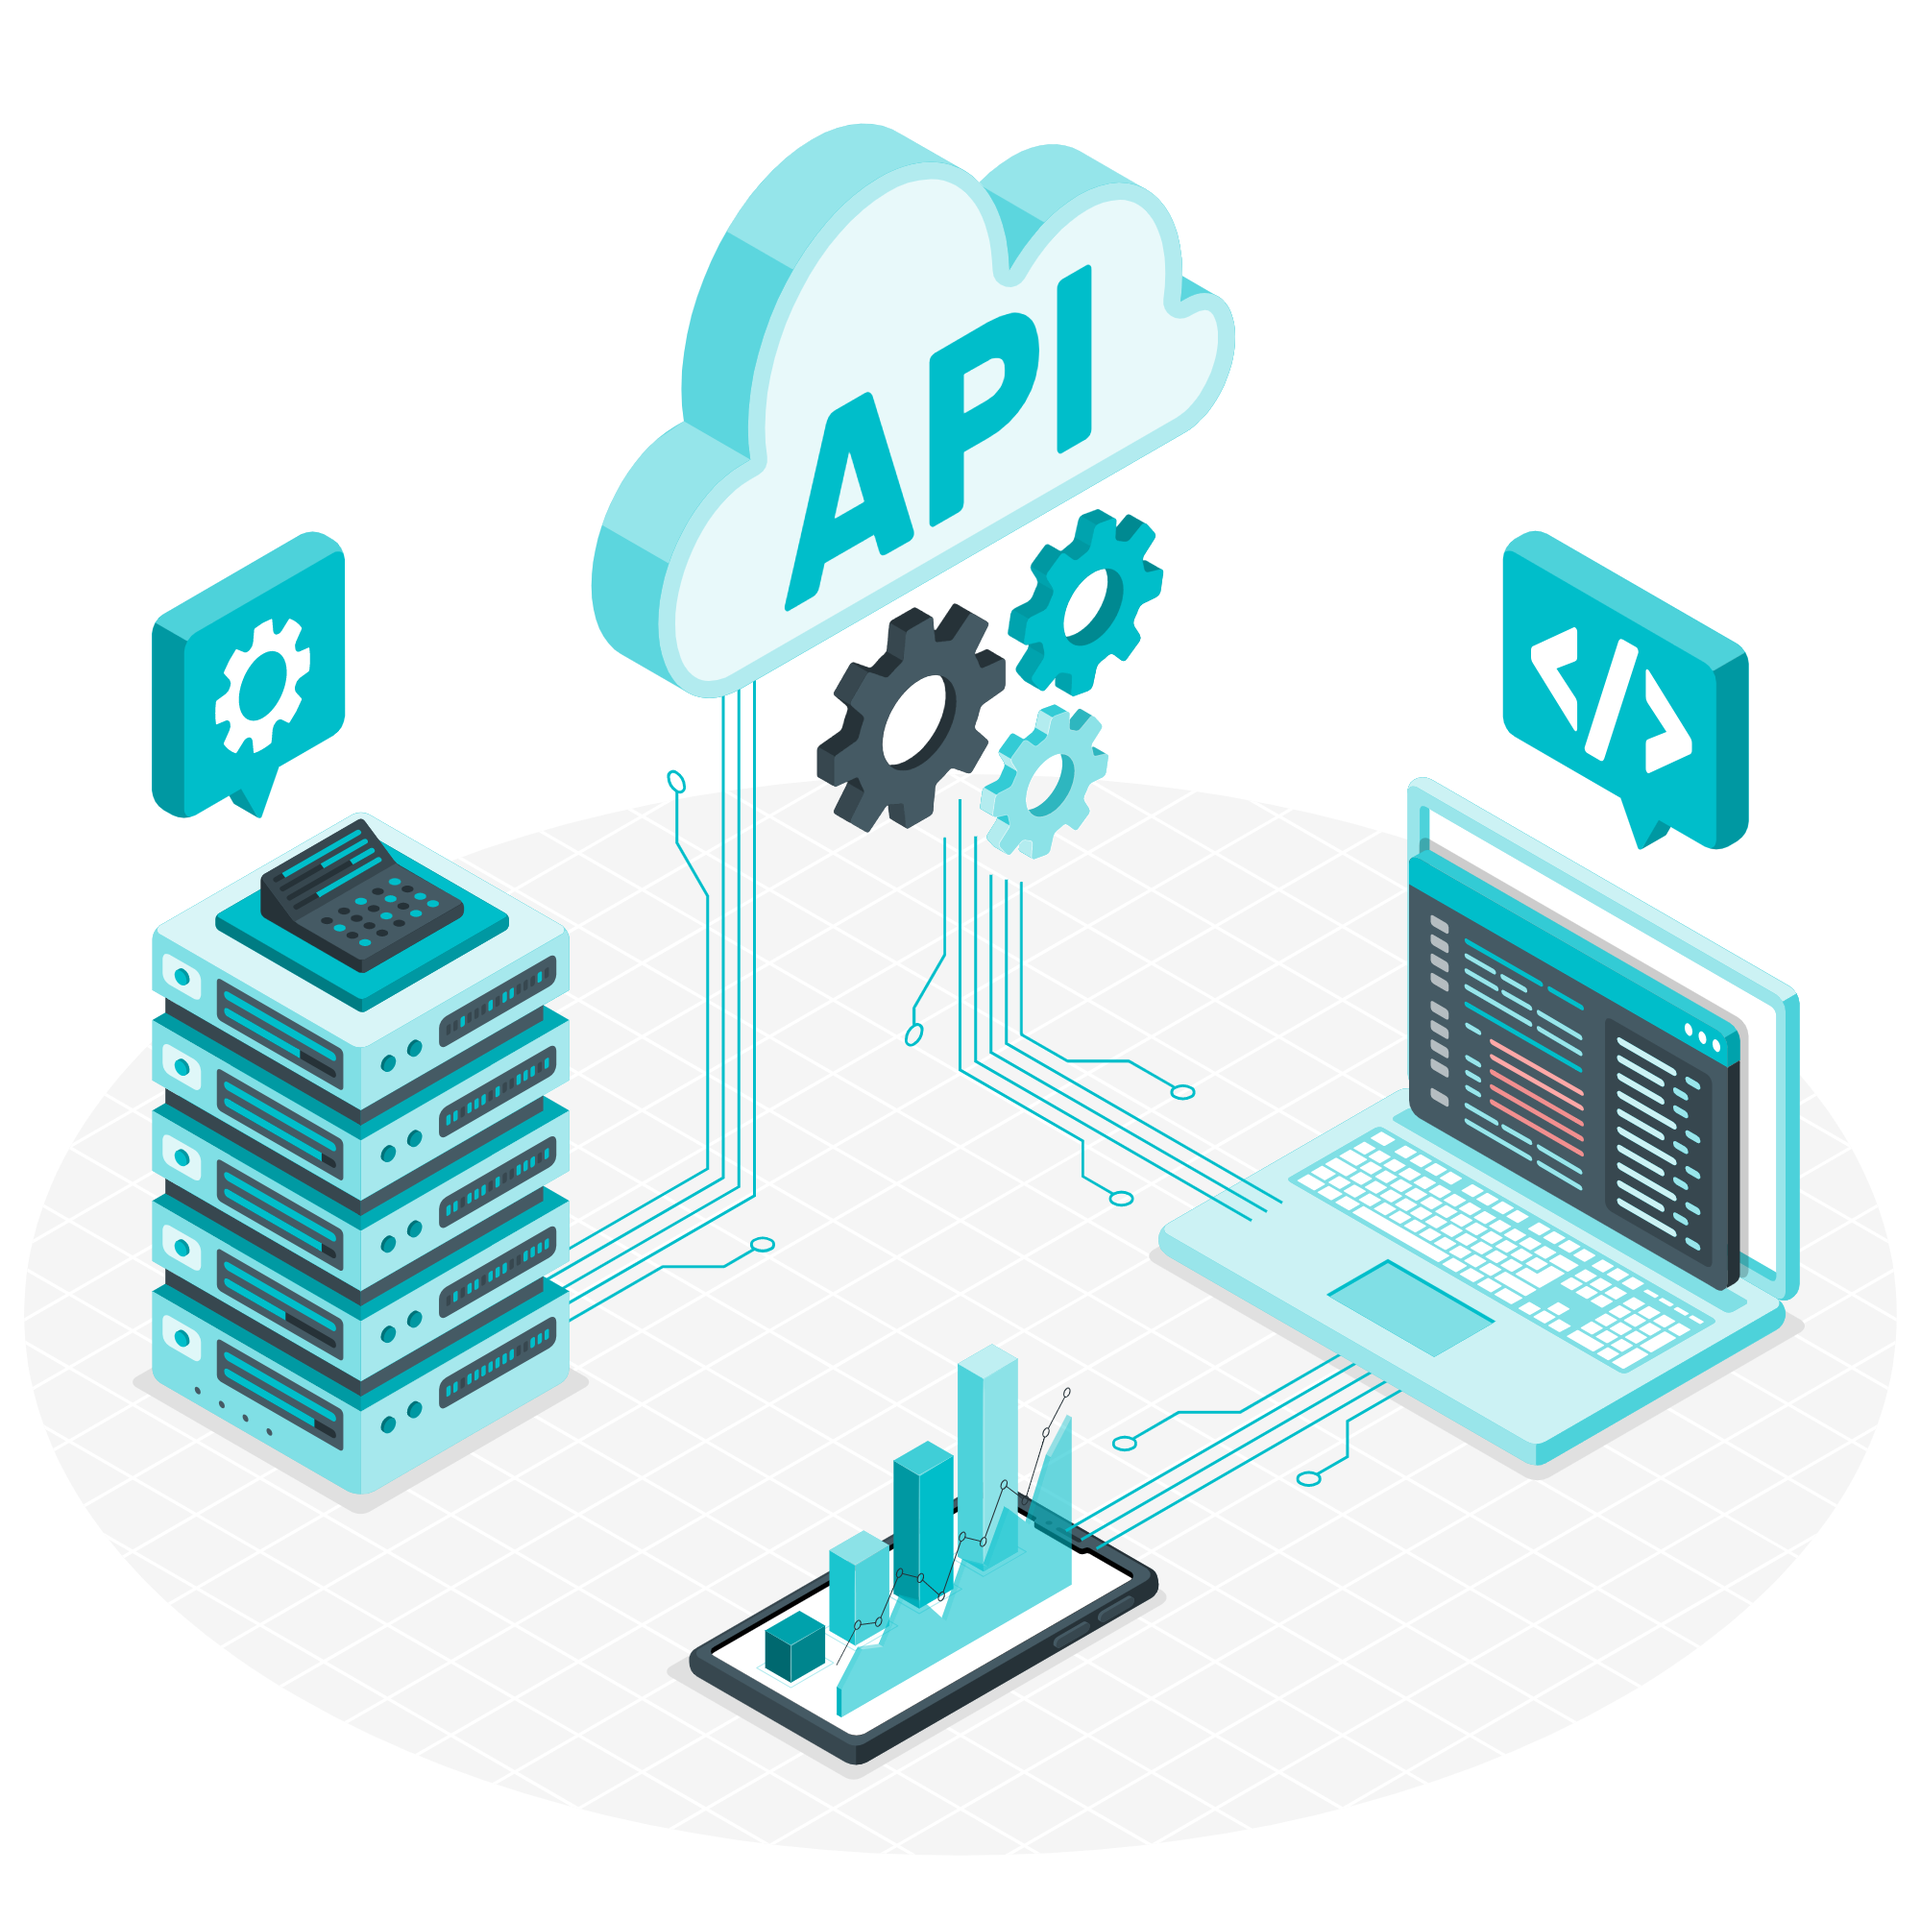
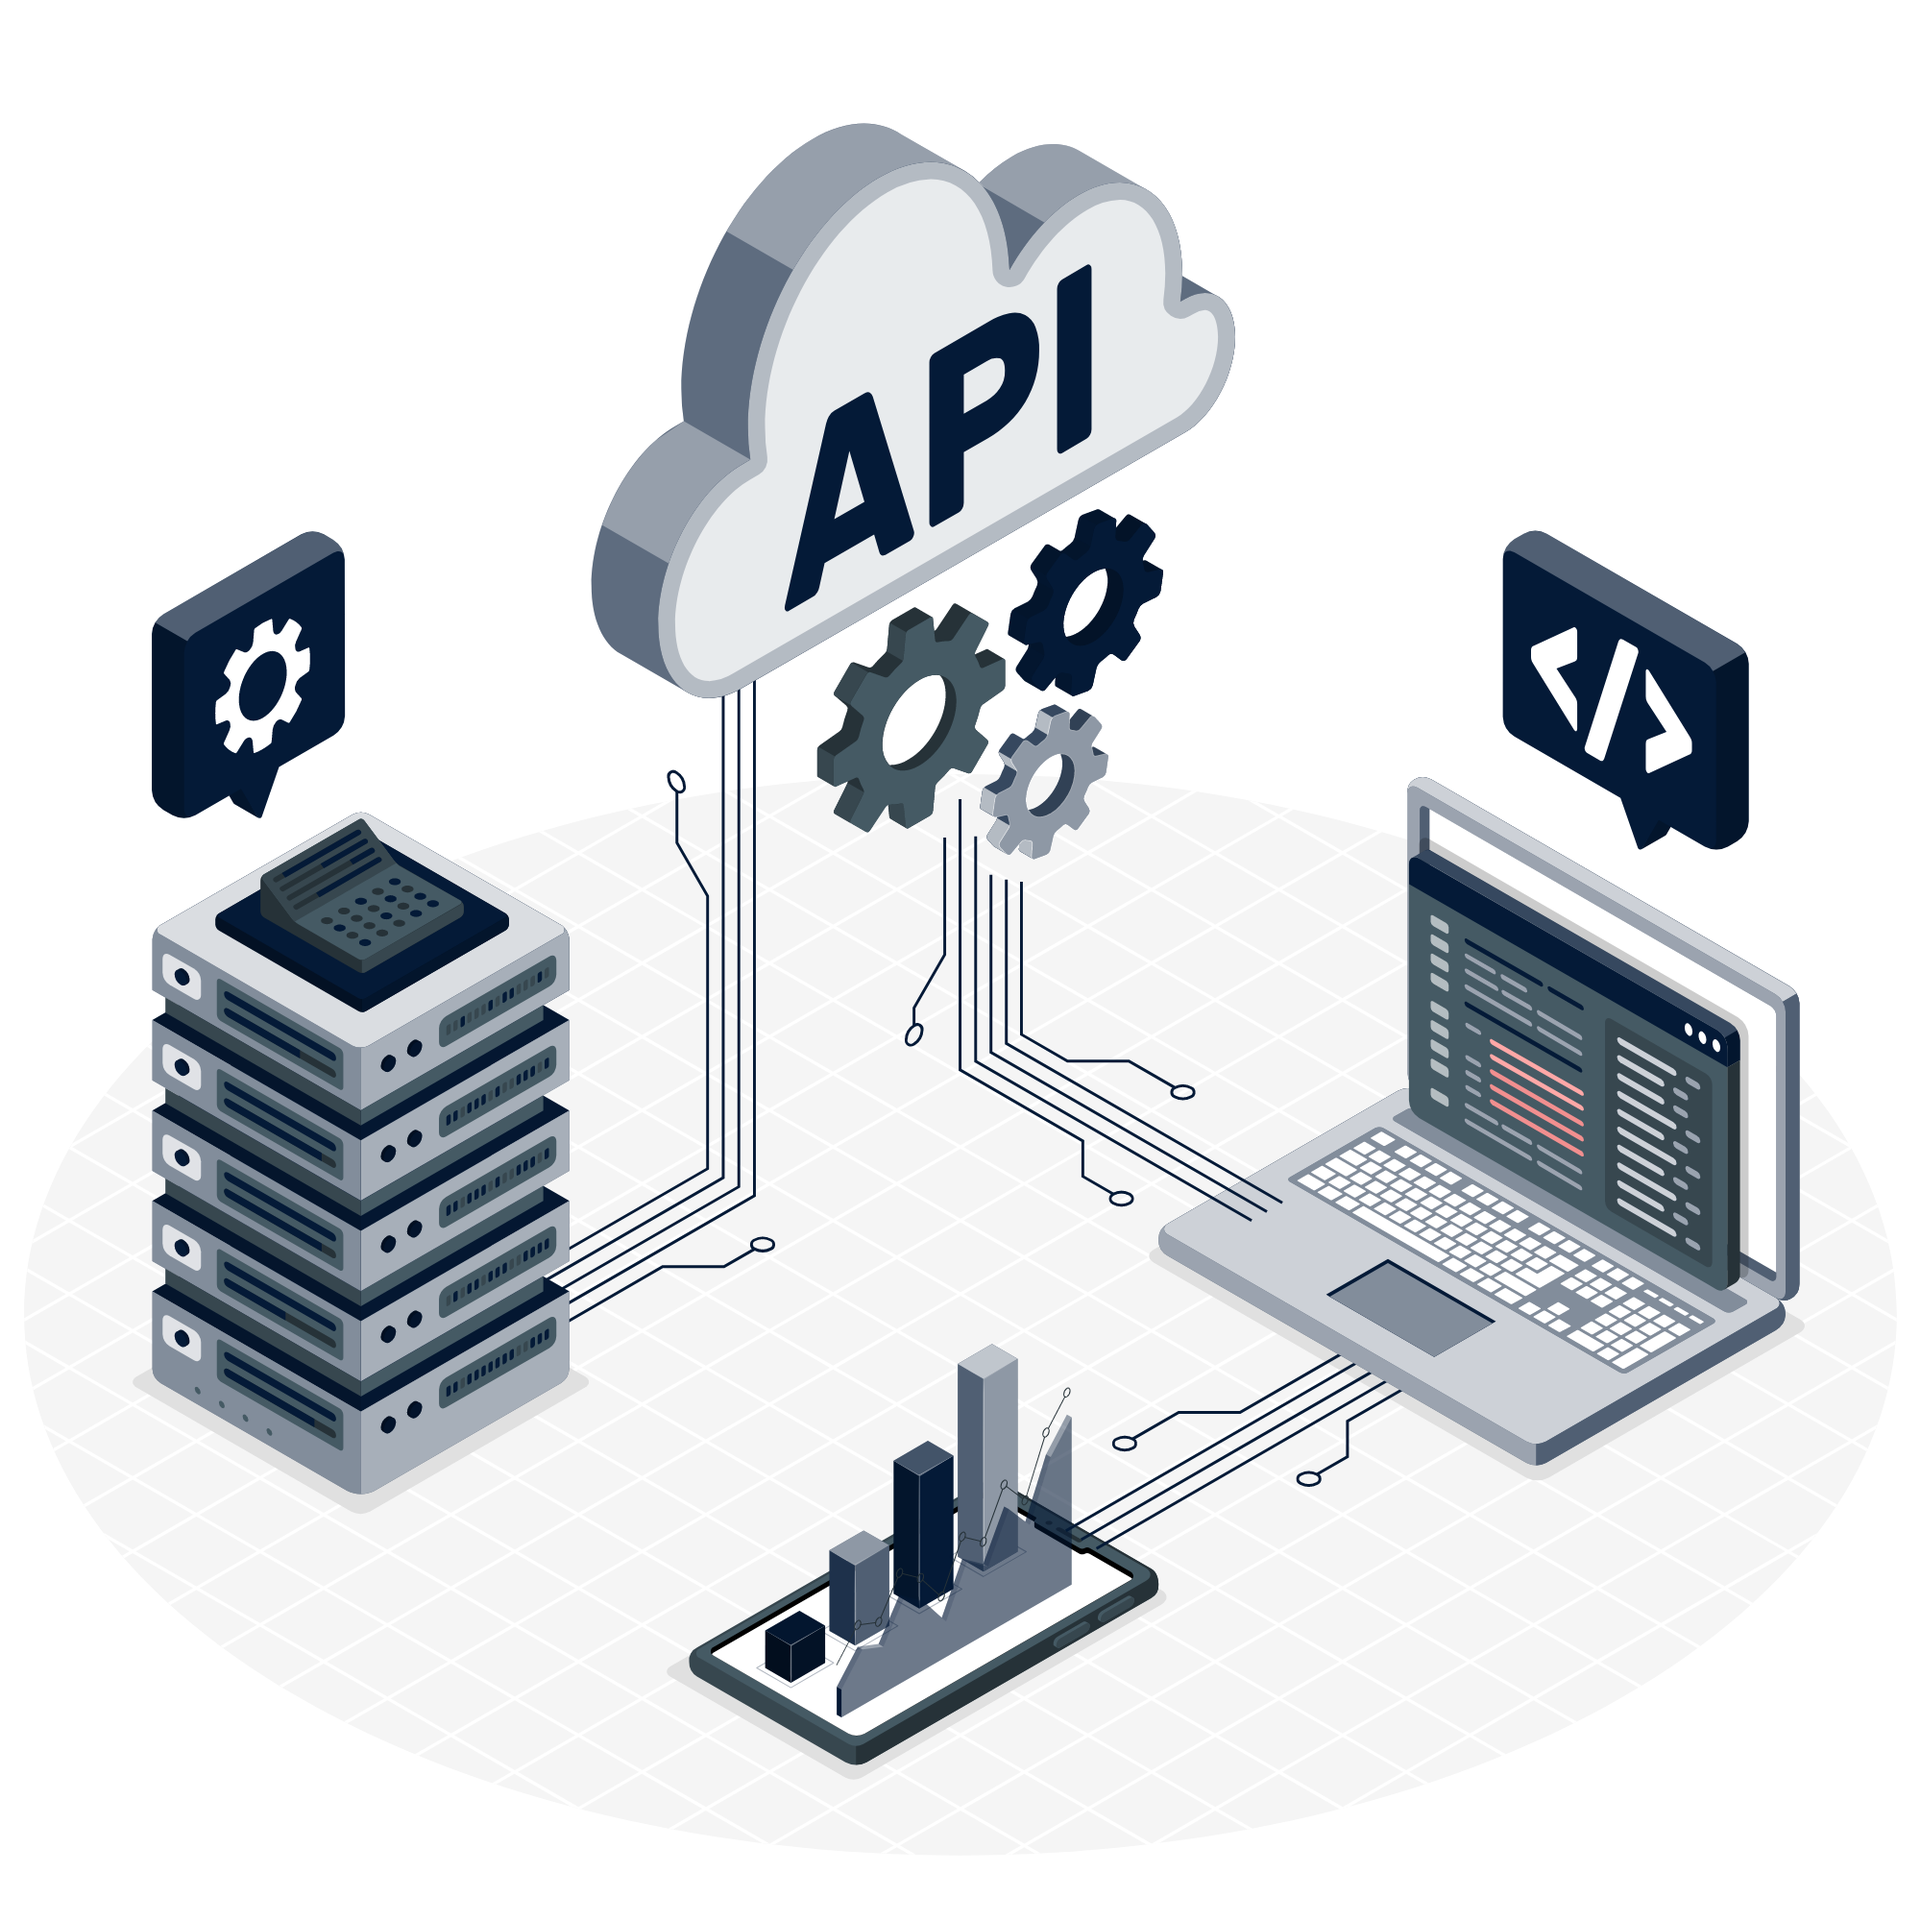
nova versão do site

Changed region(s): [[0.062, 0.062, 0.961, 0.899], [0.062, 0.279, 0.186, 0.434]]

diff --git a/SITE/index.html b/SITE/index.html
@@ -38,32 +38,32 @@
   
     <div class="banner">
       <div class="container">
-        <img src="img/Frozen food-pana.png" alt="">
-        <p> <b>A</b> <span>ColdTech</span> <b>é uma empresa que porpõe soluções baseadas no </b>
+        <img src="img/SLOGAN_INC-removebg-preview.png" alt="">
+        <p> <b>A</b> <span>ColdTech</span> <b>é uma empresa que propõe soluções baseadas no </b>
           <span>monitoramento de freezers e câmaras frias.</span>
       </div>
     </div>
     
-    <h1>Conheça um pouco mais sobre nós.</h1>
+    <h2>CONHEÇA UM POUCO MAIS SOBRE NÓS</h2>
     <div class="social">
       <div class="container">
         <div class="boxes">
           <div class="box">
             <br><br>
-            <img src="img/SEO analytics team-amico.png">
+            <img src="img/SEO analytics team-cuate.png">
             <br>
-            <h3 style="color: #00beca;">Nossa Empresa</h3>
-            <p>Monitora a temperatura em freezers e câmaras frigoríficas de carne bovina.</p>
+            <h2 style="color: #B49000;">NOSSA EMPRESA</h2>
+            <p><b>Monitora a temperatura em freezers e câmaras frigoríficas de carne bovina.</b></p>
           </div>
           <div class="box">
-            <img src="img/Bookshop-bro.png">
-            <h3 style="color: #00beca;">Nossos Clientes</h3>
-            <p>Super & hipermercados.</p>
+            <img src="img/Business deal-cuate.png">
+            <h2 style="color: #B49000;">NOSSOS CLIENTES</h2>
+            <p><b>Super e hipermercados.</b></p>
           </div>
           <div class="box">
             <img src="img/Application programming interface-amico.png">
-            <h3 style="color: #00beca;">Nosso Mercado</h3>
-            <p>Tecnologia e soluções em IOT com sistemas agéis.</p>
+            <h2 style="color: #B49000;">NOSSO MERCADO</h2>
+            <p><b>Tecnologia e soluções em IOT com sistemas agéis.</b></p>
           </div>
         </div>
       </div>
@@ -87,12 +87,12 @@
         <p><b>Nossa visão é atingir a comunidade de açougues e tornar nossa ferramenta util  na rotina dos mesmos e nos
           tornar referência na área.</b></p>
         </div>
-        <img src="img/Social ideas-amico.png">
+        <img src="img/Vision statement-bro.png">
       </div>
       <br>
       <br>
       <div class="box3">
-        <img src="img/Team work-amico.png">
+        <img src="img/Good team-bro.png">
         <div class="texto">
         <h3><b>VALORES</b></h3>
         <p><b>Nossa equipe preza pela liberdade, ética, inovação, motivação, qualidade e compromisso.</b></p>
@@ -104,7 +104,7 @@
 </div>
 
       <div class="nossa_equipe">
-        <h1 style="color: #00beca;">NOSSA EQUIPE</h1>
+        <h1 style="color: #B49000;">NOSSA EQUIPE</h1>
           <div class="perfilEquipe">
               <img style src="img/giovanna.jpg" alt="">
 
@@ -143,7 +143,7 @@
           </div>
       </div>
 <div class="contato">
-        <h2 style="color: #00beca;">ENTRE EM CONTATO CONOSCO, DEIXE SUA PERGUNTA!</h2>
+        <h2 style="color: #B49000;">ENTRE EM CONTATO CONOSCO, DEIXE SUA PERGUNTA!</h2>
           <div class="contato">
             <div class="alerta_erro">
                 <div class="card_erro" id="cardErro">
@@ -153,7 +153,7 @@
             
             <div class="container">
                 <div class="card card-login">
-                  <img src="img/Get in touch-amico.png" alt="">
+                  <img src="img/Get in touch-cuate.png" alt="">
                     <div class="formulario">
                       <div class="campo">
                         <span>Nome:</span>

diff --git a/SITE/css/estilo.css b/SITE/css/estilo.css
@@ -21,15 +21,15 @@ body { /*CSS DA PAGINA INTEIRA*/
 
 .header {
   height: var(--tamanho-header);
-  border-bottom: 1px solid #00beca;
-  background-color: #00beca;
+  border-bottom: 1px solid #041A37;
+  background-color: #041A37;
 }
 
 .header .container {
   justify-content: space-between;
   align-items: center;
   height: 100%;
-  background-color: #00beca;
+  background-color: #041A37;
 }
 
 .header a {
@@ -72,8 +72,8 @@ body { /*CSS DA PAGINA INTEIRA*/
 }
 
 .banner .container img{
- height: 300px;
- margin-left: 50px;
+ height: 450px;
+ margin-top: -100px;
 }
 
 .banner .container p {
@@ -86,15 +86,14 @@ body { /*CSS DA PAGINA INTEIRA*/
 
 .banner .container span {
   font-weight: 800;
-  color: #00beca;
+  color: #B49000;
 }
 
 .social {
   background-color: #e5e5e5;
   display: flex; 
   justify-content: space-between;
-  margin-left: 300px;
-  margin-right: 300px;
+
 }
 
 .social .container {
@@ -102,7 +101,7 @@ body { /*CSS DA PAGINA INTEIRA*/
  
 }
 .box img {
-  width: 170px;
+  width: 250px;
 }
 
 .social .container .boxes {
@@ -156,7 +155,7 @@ body { /*CSS DA PAGINA INTEIRA*/
   width: 300px;
   font-size: 30px;
   text-align: center;
-  color: #00beca;
+  color: #B49000;
  }
 
 .container_empresa .box2{
@@ -251,13 +250,13 @@ h1{
   background: white;
   width: 500px;
   height: 600px;
-  color: #00beca;
+  color: #041A37;
   display: flex;
   flex-direction: column;
   justify-content: center;
   align-items:center;
   border-radius: 50px;
-  border: #00beca 1.5px solid;
+  border: #041A37 1.5px solid;
   box-sizing: border-box;
   margin-top: 100px;
 }
@@ -288,7 +287,7 @@ h1{
 .card h2 {
  
   font-size: 19px;
-  color: #00beca;
+  color: #041A37;
 }
 
 .card_erro {
@@ -323,7 +322,7 @@ h1{
 .formulario input {
   padding: 4px 60px;
     text-align: center;
-    border: 1.5px solid #00beca;
+    border: 1.5px solid #041A37;
     border-radius: 50px;
 }
 
@@ -336,8 +335,8 @@ h1{
 
 .botao {
     margin-top: 10px;
-    background: #00beca;
-    color:black;
+    background: #041A37;
+    color:white;
     padding: 3px 20px;
     border: none;
     border-radius: 20px;
@@ -426,7 +425,7 @@ justify-content: left;
   background: white;
   width: 500px;
   height: 600px;
-  color: #7ED957;
+  color: #041A37;
   display: flex;
   flex-direction: column;
   justify-content: center;
@@ -441,6 +440,7 @@ justify-content: left;
 
 h2 {
   text-align: center;
+  color: #041A37;
 }
 
 .saude_freezers{

diff --git a/SITE/cadastro.html b/SITE/cadastro.html
@@ -76,7 +76,7 @@
                         <input id="cnpj_input" type="text" placeholder="xx.xxx.xxx/xxxx-xx">
                         <br>
                     </div>
-                    <button class="botao" onclick="cadastrar()">Cadastrar</button>
+                    <button class="botao" onclick="cadastrar()"><b>CADASTRAR</b></button>
                 </div>
             </div>
         </div>

diff --git a/SITE/login.html b/SITE/login.html
@@ -62,7 +62,7 @@
                         <input id="senha_input" type="password" placeholder="********">
                         <br>
                     </div>
-                    <button class="botao" onclick="entrar()">Entrar</button>
+                    <button class="botao" onclick="entrar()"><b>ENTRAR</b></button>
 
                 </div>
                 <div id="div_erros_login"></div>
